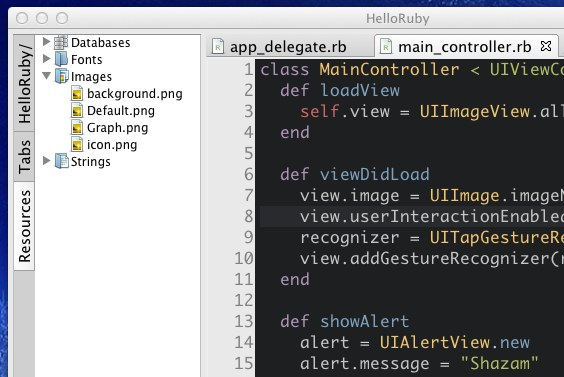
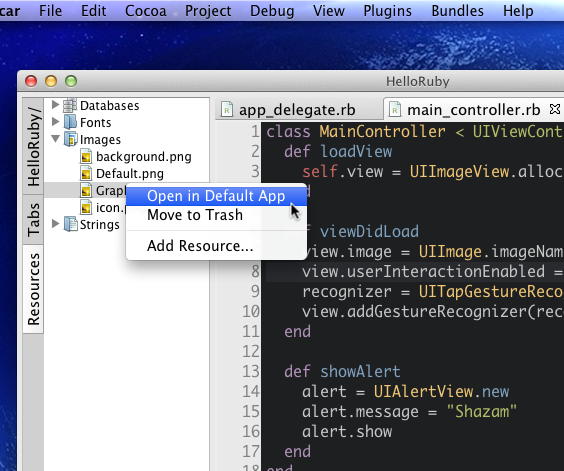
Update screenshots

diff --git a/readme.md b/readme.md
@@ -33,7 +33,7 @@ Basic RubyMotion workflow support in Redcar Editor
 
 Installing this plugin will add a new 'Cocoa' submenu to the Redcar menu bar. Syntax checking is performed on file save.
 
-![Cocoa Menu](https://github.com/kattrali/redcar-rubymotion/raw/master/docs/Menubar.jpg)
+![Cocoa Menu](https://github.com/kattrali/redcar-rubymotion/raw/master/docs/Menubar.png)
 
 ### Primary Commands
 
@@ -45,7 +45,7 @@ Installing this plugin will add a new 'Cocoa' submenu to the Redcar menu bar. Sy
 - **Quit iOS Simulator (Shift+^Q):** Close simulator
 - **Create Archives:** Create release (App Store) and development .ipa files
 - **Open Resource Manager:** Show project resources in a tree pane, organized by type
-![Screenshot](https://github.com/kattrali/redcar-rubymotion/raw/master/docs/resources.jpg)
+![Screenshot](https://github.com/kattrali/redcar-rubymotion/raw/master/docs/resources.png)
 - **Show Configuration:** Display `rake config` in a Web View
 - **Show Class Documentation (Shift+⌘Space):** Open class documentation in a Web View for the class name currently under the cursor.
 - **File Support Ticket:** File a ticket with RubyMotion support
